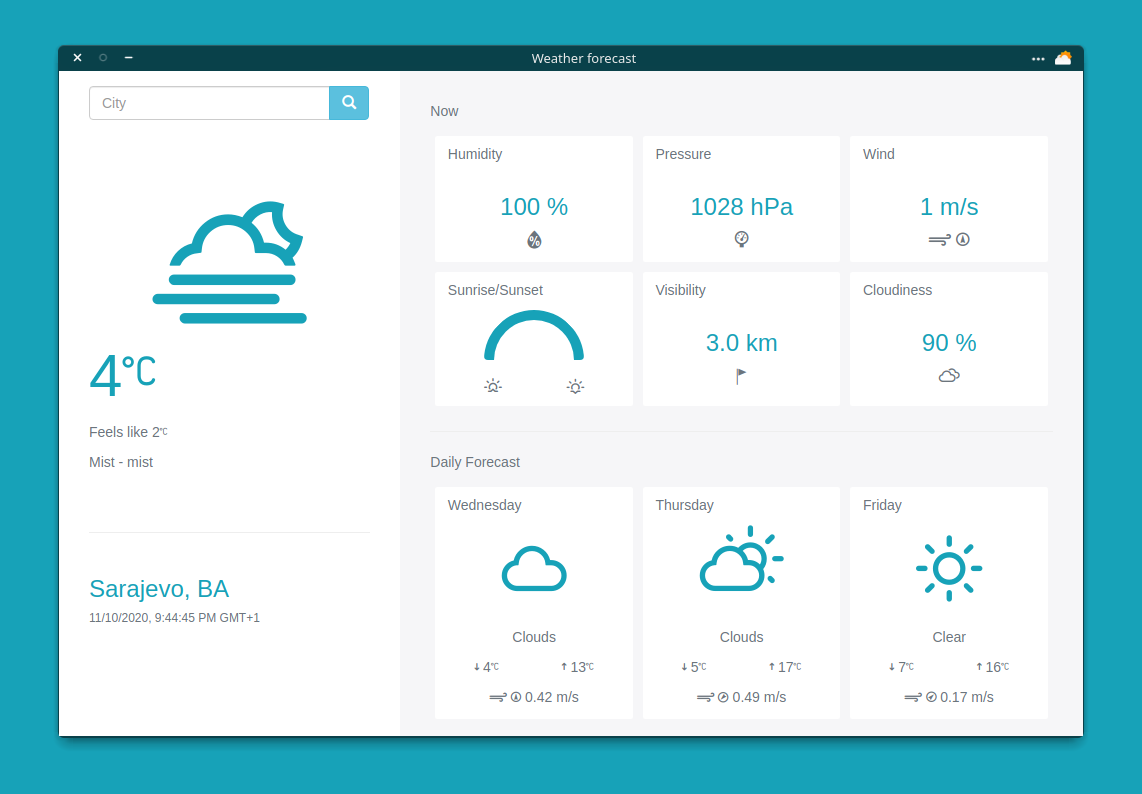
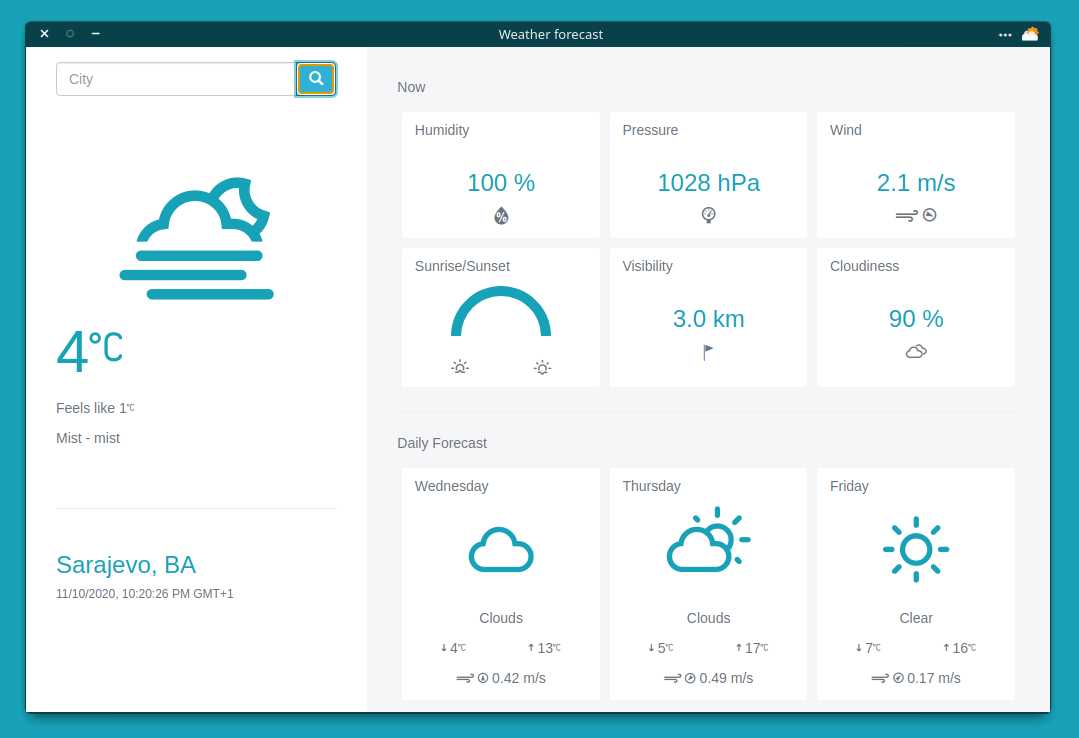
style refinement

diff --git a/style/css/style.css b/style/css/style.css
@@ -20,7 +20,7 @@ html,body {
 .progress {
     background-color: #FFFFFF !important;
     box-shadow: none !important;
-    height: 50px !important;
+    height: 55px !important;
 }
 
 .barOverflow {
@@ -39,4 +39,25 @@ html,body {
     border: 10px solid #ccc;
     border-bottom-color: #17A2B8;
     border-right-color: #17A2B8;
+}
+
+textarea:focus,
+input[type="text"]:focus,
+input[type="password"]:focus,
+input[type="datetime"]:focus,
+input[type="datetime-local"]:focus,
+input[type="date"]:focus,
+input[type="month"]:focus,
+input[type="time"]:focus,
+input[type="week"]:focus,
+input[type="number"]:focus,
+input[type="email"]:focus,
+input[type="url"]:focus,
+input[type="search"]:focus,
+input[type="tel"]:focus,
+input[type="color"]:focus,
+.uneditable-input:focus {
+    border-color: rgba(23, 162, 184, 0.8);
+    box-shadow: 0 0 8px rgba(23, 162, 184, 0.6);
+    outline: 0 none;
 }

diff --git a/main.js b/main.js
@@ -1,5 +1,6 @@
 // Modules to control application life and create native browser window
 const {app, BrowserWindow, Menu} = require('electron');
+Menu.setApplicationMenu(false);
 
 const unhandled = require('electron-unhandled');
 unhandled();
@@ -16,18 +17,17 @@ function createWindow () {
         },
         width: 1024,
         height: 665,
-        //minWidth: 1100,
-        //minHeight: 700,
         resizable: false,
         show: false,
         center: true,
+        fullscreenable:false,
     });
 
     // and load the index.html of the app.
     mainWindow.loadFile('index.html');
 
     // hide menu bar
-    mainWindow.setMenuBarVisibility(false)
+    mainWindow.setMenuBarVisibility(true);
 
     // Open the DevTools.
     mainWindow.webContents.openDevTools();

diff --git a/README.md b/README.md
@@ -8,6 +8,7 @@ Weather API is provided by [OpenWeatherMap](https://openweathermap.org/).
 ## Built With
 * HTML
 * Bootstrap
+* Weather Icons
 * Javascript
 
 
@@ -38,7 +39,7 @@ And the possible values for the arch option are:
 
 Example:
 ```javascript
-electron-packager . --platform=win32 --arch=x86
+electron-packager . --platform=linux --arch=x64
 ```
 
 ### Building for all platforms
